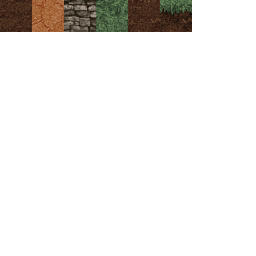
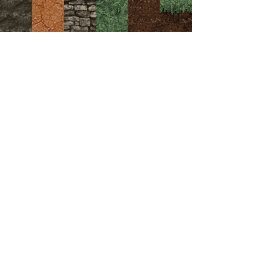
New stone block.

Changed region(s): [[0.0, 0.0, 0.125, 0.125]]

diff --git a/src/main.cpp b/src/main.cpp
@@ -71,14 +71,14 @@ static void placeBlocks(Chunk *chunk) {
                 height -= (chunk->chunk_y * 32);
                 for (int i = 0; i < height; i++) {
                     if (dot(finalNorm, vec3(0.0f, 1.0f, 0.0f)) < 0.7f) {
-                        chunk->setBlock(x, i, z, 4);
+                        chunk->setBlock(x, i, z, 1);
                     }
                     else {
                         chunk->setBlock(x, i, z, 2);
                     }
                 }
                 if (dot(finalNorm, vec3(0.0f, 1.0f, 0.0f)) < 0.7f) {
-                    chunk->setBlock(x, floor(height), z, 4);
+                    chunk->setBlock(x, floor(height), z, 1);
                 }
                 else {
                     chunk->setBlock(x, floor(height), z, 3);
@@ -101,7 +101,7 @@ static void init() {
     Renderer::init();
 
     BlockRegistry::registerBlock(0, new BlockAir());
-    BlockRegistry::registerBlock(1, new SimpleBlock(vec2i(1, 0)));
+    BlockRegistry::registerBlock(1, new SimpleBlock(vec2i(0, 0)));
     BlockRegistry::registerBlock(2, new SimpleBlock(vec2i(4, 0)));
     BlockRegistry::registerBlock(3, new BlockGrass());
     BlockRegistry::registerBlock(4, new SimpleBlock(vec2i(2, 0)));
